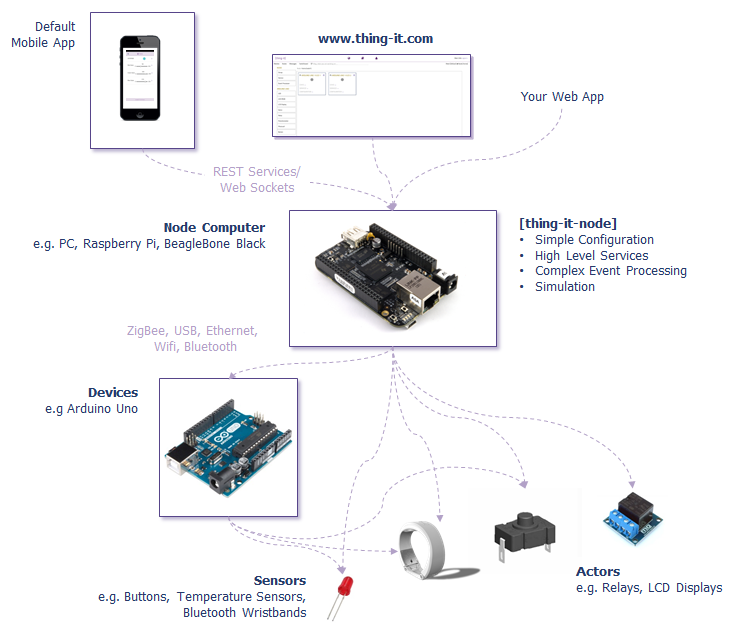
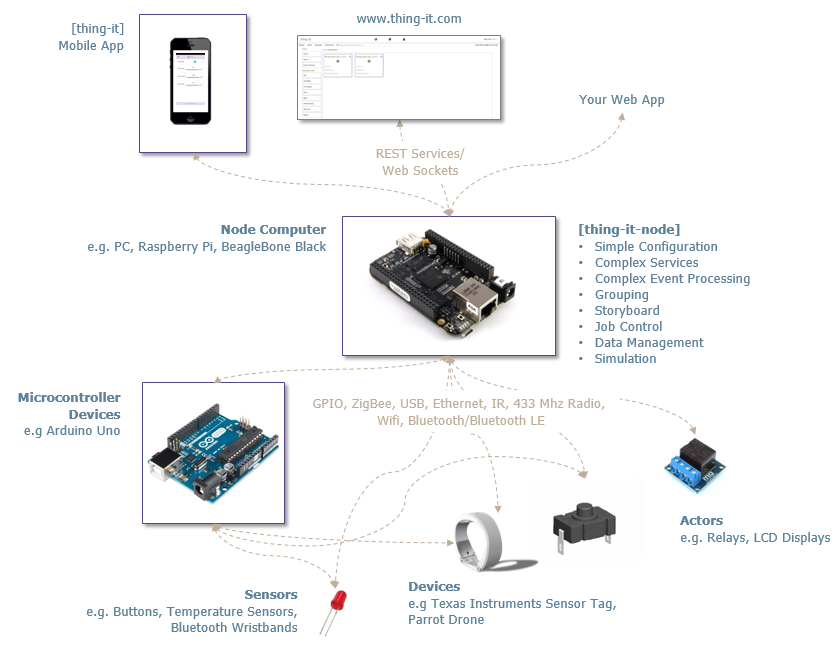
Div. documentation and heart rate monitor.

diff --git a/lib/default-devices/thing-it-device-heart-rate-monitor/heartRateMonitor.js b/lib/default-devices/thing-it-device-heart-rate-monitor/heartRateMonitor.js
@@ -1,0 +1,184 @@
+module.exports = {
+    metadata: {
+        family: "heartRateMonitor",
+        plugin: "heartRateMonitor",
+        label: "Heart Rate Monitor",
+        manufacturer: "Generic",
+        tangible: true,
+        discoverable: true,
+        state: [{
+            id: "heartrate",
+            label: "HeartRate",
+            type: {
+                id: "number"
+            }
+        }],
+        actorTypes: [],
+        sensorTypes: [],
+        services: [],
+        configuration: []
+    },
+    create: function (device) {
+        return new HeartRateMonitor();
+    },
+    discovery: function (options) {
+        var discovery = new HeartRateMonitorDiscovery();
+
+        discovery.options = options;
+
+        return discovery;
+    }
+};
+
+var utils = require("../../utils");
+var q = require('q');
+var noble = require('noble');
+
+var GUID_PATTERN = /([a-f0-9]{8})-?([a-f0-9]{4})-?([a-f0-9]{4})-?([a-f0-9]{4})-?([a-f0-9]{12})/;
+var GUID_REPLACEMENT = "$1-$2-$3-$4-$5";
+
+var ON_STATE = 'poweredOn';
+
+var HEART_RATE_VALUE_FORMAT = 1;
+
+var HR_CHARACTERISTIC_HEARTRATE_UUID = '2a37';
+var HR_CHARACTERISTIC_BODYSENSOR_UUID = '2a38';
+var BATTERY_CHARACTERISTIC_LEVEL_UUID = '2a19';
+var HR_SERVICE_HEARTRATE_UUID = '180d';
+var BATTERY_SERVICE_UUID = '180f';
+var BODY_LOCATION_STRINGS = ['Other', 'Chest', 'Wrist',
+    'Finger', 'Hand', 'Ear Lobe', 'Foot'];
+
+function HeartRateMonitorDiscovery() {
+    /**
+     *
+     * @param options
+     */
+    HeartRateMonitorDiscovery.prototype.start = function () {
+        if (this.node.isSimulated()) {
+        } else {
+            noble.on('discover', function (peripheral) {
+                if (peripheral.advertisement.localName &&
+                    peripheral.advertisement.localName.indexOf('SensorTag') === 0) {
+
+                    console.log("Found Heart Rate Monitor " + peripheral.advertisement.localName);
+                    console.log("\tUUID " + peripheral.uuid);
+
+                    if (peripheral.uuid) {
+                        console.log("GUID " + peripheral.uuid.replace(GUID_PATTERN, GUID_REPLACEMENT));
+                    }
+
+                    var heartRateMonitor = new HeartRateMonitor();
+
+                    heartRateMonitor.peripheral = peripheral;
+                    heartRateMonitor.uuid = peripheral.uuid;
+
+                    this.advertiseDevice(heartRateMonitor);
+                }
+            }.bind(this));
+
+            noble.startScanning();
+        }
+    };
+
+    /**
+     *
+     * @param options
+     */
+    HeartRateMonitorDiscovery.prototype.stop = function () {
+        noble.stopScanning();
+    };
+}
+
+/**
+ *
+ */
+function HeartRateMonitor() {
+    /**
+     *
+     */
+    HeartRateMonitor.prototype.start = function () {
+        var deferred = q.defer();
+
+        this.state = {
+            heartRate: null,
+            bodyLocation: null,
+            batteryLevel: null
+        };
+
+        if (this.peripheral) {
+            this.connect();
+
+            deferred.resolve();
+        }
+        else {
+            if (!this.isSimulated()) {
+                console.log("Start Heart Rate Discovery");
+
+                noble.on('discover', function (peripheral) {
+                    console.log(peripheral.advertisement.localName);
+
+                    if (peripheral.advertisement.localName &&
+                        peripheral.uuid === this.uuid) {
+                        console.log("\tFound configured Heart Rate " + peripheral.advertisement.localName);
+                        console.log("\tUUID " + peripheral.uuid);
+
+                        if (peripheral.uuid) {
+                            console.log("\tGUID " + peripheral.uuid.replace(GUID_PATTERN, GUID_REPLACEMENT));
+                        }
+
+                        this.peripheral = peripheral;
+
+                        noble.stopScanning();
+
+                        this.connect();
+                    }
+                }.bind(this));
+
+                noble.startScanning();
+
+                console.log("\tScanning started");
+
+                deferred.resolve();
+            } else {
+                deferred.resolve();
+            }
+        }
+
+        return deferred.promise;
+    };
+
+    /**
+     *
+     */
+    HeartRateMonitor.prototype.connect = function () {
+        this.peripheral.connect(function (error) {
+            if (error) {
+                console.log(error);
+            } else {
+                self.peripheral.discoverServices([
+                    HR_SERVICE_HEARTRATE_UUID, BATTERY_SERVICE_UUID
+                ], function (error, services) {
+                    if (error) return self.emit('error', new Error(error));
+
+                    handleHeartRateService(self, services);
+                    handleBatteryService(self, services);
+                });
+            }
+        }.bind(this));
+    };
+
+    /**
+     *
+     */
+    HeartRateMonitor.prototype.setState = function (state) {
+        this.state = state;
+    };
+
+    /**
+     *
+     */
+    HeartRateMonitor.prototype.getState = function () {
+        return this.state;
+    };
+}

diff --git a/lib/default-devices/thing-it-device-ar-drone/ardroneBluetoothLE.js b/lib/default-devices/thing-it-device-ar-drone/ardroneBluetoothLE.js
@@ -296,7 +296,7 @@ function ArDroneBluetoothLE() {
      *
      */
     ArDroneBluetoothLE.prototype.takeOff = function () {
-        console.log("TISensorTag.takeOff");
+        console.log("HeartRateMonitor.takeOff");
 
         if (!this.isSimulated()) {
             this.steps['fa0b'] = (this.steps['fa0b'] || 0) + 1;
@@ -314,7 +314,7 @@ function ArDroneBluetoothLE() {
      *
      */
     ArDroneBluetoothLE.prototype.land = function () {
-        console.log("TISensorTag.land");
+        console.log("HeartRateMonitor.land");
 
         if (!this.isSimulated()) {
             this.steps['fa0b'] = (this.steps['fa0b'] || 0) + 1;
@@ -332,7 +332,7 @@ function ArDroneBluetoothLE() {
      *
      */
     ArDroneBluetoothLE.prototype.emergencyStop = function () {
-        console.log("TISensorTag.emergencyStop");
+        console.log("HeartRateMonitor.emergencyStop");
 
         if (!this.isSimulated()) {
             this.steps['fa0c'] = (this.steps['fa0c'] || 0) + 1;
@@ -351,7 +351,7 @@ function ArDroneBluetoothLE() {
      */
     ArDroneBluetoothLE.prototype.turnClockwise = function () {
         if (this.isSimulated()) {
-            console.log("TISensorTag.turnClockwise");
+            console.log("HeartRateMonitor.turnClockwise");
         }
 
         this.publishStateChange();

diff --git a/lib/default-devices/thing-it-device-ar-drone/ardroneWifi.js b/lib/default-devices/thing-it-device-ar-drone/ardroneWifi.js
@@ -155,7 +155,7 @@ function ArDroneWifi() {
      */
     ArDroneWifi.prototype.takeOff = function () {
         if (this.isSimulated()) {
-            console.log("TISensorTag.takeOff");
+            console.log("HeartRateMonitor.takeOff");
         }
         else {
             this.drone.takeoff();
@@ -169,7 +169,7 @@ function ArDroneWifi() {
      */
     ArDroneWifi.prototype.land = function () {
         if (this.isSimulated()) {
-            console.log("TISensorTag.land");
+            console.log("HeartRateMonitor.land");
         }
         else {
             this.drone.land();

diff --git a/examples/heart-rate-monitor/configuration.js b/examples/heart-rate-monitor/configuration.js
@@ -1,0 +1,15 @@
+module.exports = {
+    label: "Home",
+    id: "home",
+    autoDiscoveryDeviceTypes: [],
+    devices: [{
+        id: "heartRateMonitor",
+        label: "Heart Rate Monitor",
+        plugin: "heart-rate-monitor/heartRateMonitor",
+        configuration: {},
+        actors: [],
+        sensors: []
+    }],
+    services: [],
+    eventProcessors: []
+};

diff --git a/lib/default-devices/thing-it-device-bluetooth/default-units/genericDeviceDetector.js b/lib/default-devices/thing-it-device-bluetooth/default-units/genericDeviceDetector.js
@@ -69,7 +69,7 @@ function GenericDeviceDetector() {
 																								.log('connected');
 
 																						console
-																								.log("TISensorTag connected");
+																								.log("HeartRateMonitor connected");
 
 																						bluetoothSerialPort
 																								.write(

diff --git a/examples/bluetooth-scanning/configuration.js b/examples/bluetooth-scanning/configuration.js
@@ -2,7 +2,7 @@ module.exports = {
 	label : "Home",
 	id : "home",
 	devices : [ {
-		label : "TISensorTag",
+		label : "HeartRateMonitor",
 		id : "bluetooth",
 		plugin : "bluetooth/bluetooth",
 		actors : [],

diff --git a/lib/default-devices/thing-it-device-heart-rate-monitor/web/heartRateMonitor.html b/lib/default-devices/thing-it-device-heart-rate-monitor/web/heartRateMonitor.html
@@ -1,0 +1,5 @@
+<script>
+</script>
+<style>
+</style>
+Heartrate

diff --git a/README.md b/README.md
@@ -1,16 +1,18 @@
 **[thing-it-node]** allows you to 
 
-* connect multiple devices like an Arduino Uno with Actors and Sensors or a Bluetooth-enabled Wristband to your node computer (e.g. a regular server, a Raspberry Pi or a BeagleBone Black) to centralize **Internet access** to a **distributed, scalable set of Sensors and Actors**, 
-* invoke **REST Services** on all Actors, 
-* receive **WebSocket Notifications** on all Sensor data changes and events,
+* connect multiple Devices (e.g. Heart Rate Monitors, Sensor Tags, Drones) as well as low-level Actors and Sensors managed via Microcontrollers like an Arduino
+  to your node computer (e.g. a regular server, a Raspberry Pi or a BeagleBone Black)
+* invoke **REST Services** on all Devices and Actors,
+* receive **WebSocket Notifications** on all Device and Sensor state changes and events,
 * define **Higher-level REST Services** to control multiple Actors,
-* define **Complex Event Processing** to react on Sensor events and data changes,
-* define **Storyboards** for the timeline-based, animation of Actor State Changes (e.g. for robotics),
-* define **Jobs** for calendar-based, recurring execution of Services or Storyboards,
-* define **Complex Data Variables** to persistently store Event Data for later evaluation and
-* use a **Mobile Client** to control your devices.
+* define **Complex Event Processing** to react to Sensor events and state changes,
+* define **Storyboards** for the timeline-based invocation of Node, Device and Actor Services (e.g. for robotics),
+* define **Job Schedules** for a calendar-based, recurring execution of Services including start of Storyboards,
+* define **Complex Data Variables** to persistently store Event Data for later evaluation or for configurations and
+* use a **Mobile Client** to monitor and control your Devices.
 
-All of the above is controlled by a [nodejs](http://nodejs.org/) server which is bootstrapped from a **simple JSON configuration**, which allows you to configure a **home automation system in minutes**.
+All of the above is controlled by a [nodejs](http://nodejs.org/) server which is bootstrapped from a **simple JSON configuration**, which allows you to
+configure a **home automation system in minutes**.
 
 <p align="center"><a href="./documentation/images/architecture.png"><img src="./documentation/images/architecture.png" width="80%" height="80%"></a></p>
 
@@ -18,19 +20,12 @@ More details can be found on the [thing-it-node Wiki](https://github.com/marcgil
 
 # thing-it.com
 
-You can use [www.thing-it.com](http://www.thing-it.com) to create and simulate your setup for **[thing-it-node]** and then just download the configuration file.
+You can use [www.thing-it.com](http://www.thing-it.com) to create and simulate your setup for **[thing-it-node]** and then just download the configuration file or
+connect your Nodes permanently.
 
 # Dual License
 
 **[thing-it-node]** is available under the [MIT License](./thing-it-node/license.mit) and the [Eclipse Public License](https://eclipse.org/org/documents/epl-v10.html).
-
-# Philosophy
-
-**[thing-it-node]** is created because we felt the need for a scalable management entity which bridges Internet services and multiple, possibly heterogenous devices. It is not intended to compete with, but rather complement and use great libraries and frameworks like
-
-* [Fritzing](http://fritzing.org/) by FH Potsdam,
-* [Johnny Five](https://github.com/rwaldron/johnny-five/wiki/Board) by Rick Waldron or
-* [aREST](https://github.com/marcoschwartz/aREST) by Marco Schwarz.
 
 # Getting Started
 
@@ -42,6 +37,9 @@ Let's set up a simple - but not too simple - home automation scenario:
 1. A Photocell to detect the ambient light in a room and event processing to switch both LEDs on if the light goes below some threshold for a while (to distinguish sunset from the Photocell being temporarily covered by your curious cat).
 1. Two buttons to toggle the state of each lamp.
 1. A simple (mobile capable) web application to toggle the state of both lamps individually and together - alternatively to using the buttons - and to display the event under 2.
+
+If you are not so interested in tinkering with Microcontrollers and e.g. just intend to connect some Bluetooth LE Devices have a look at other Node Configurations
+on the [thing-it.com Mesh Market](http://www.thing-it.com/thing-it/index.html#/marketPanel).
 
 ## Installing, Configuring and Running [thing-it-node]
 
